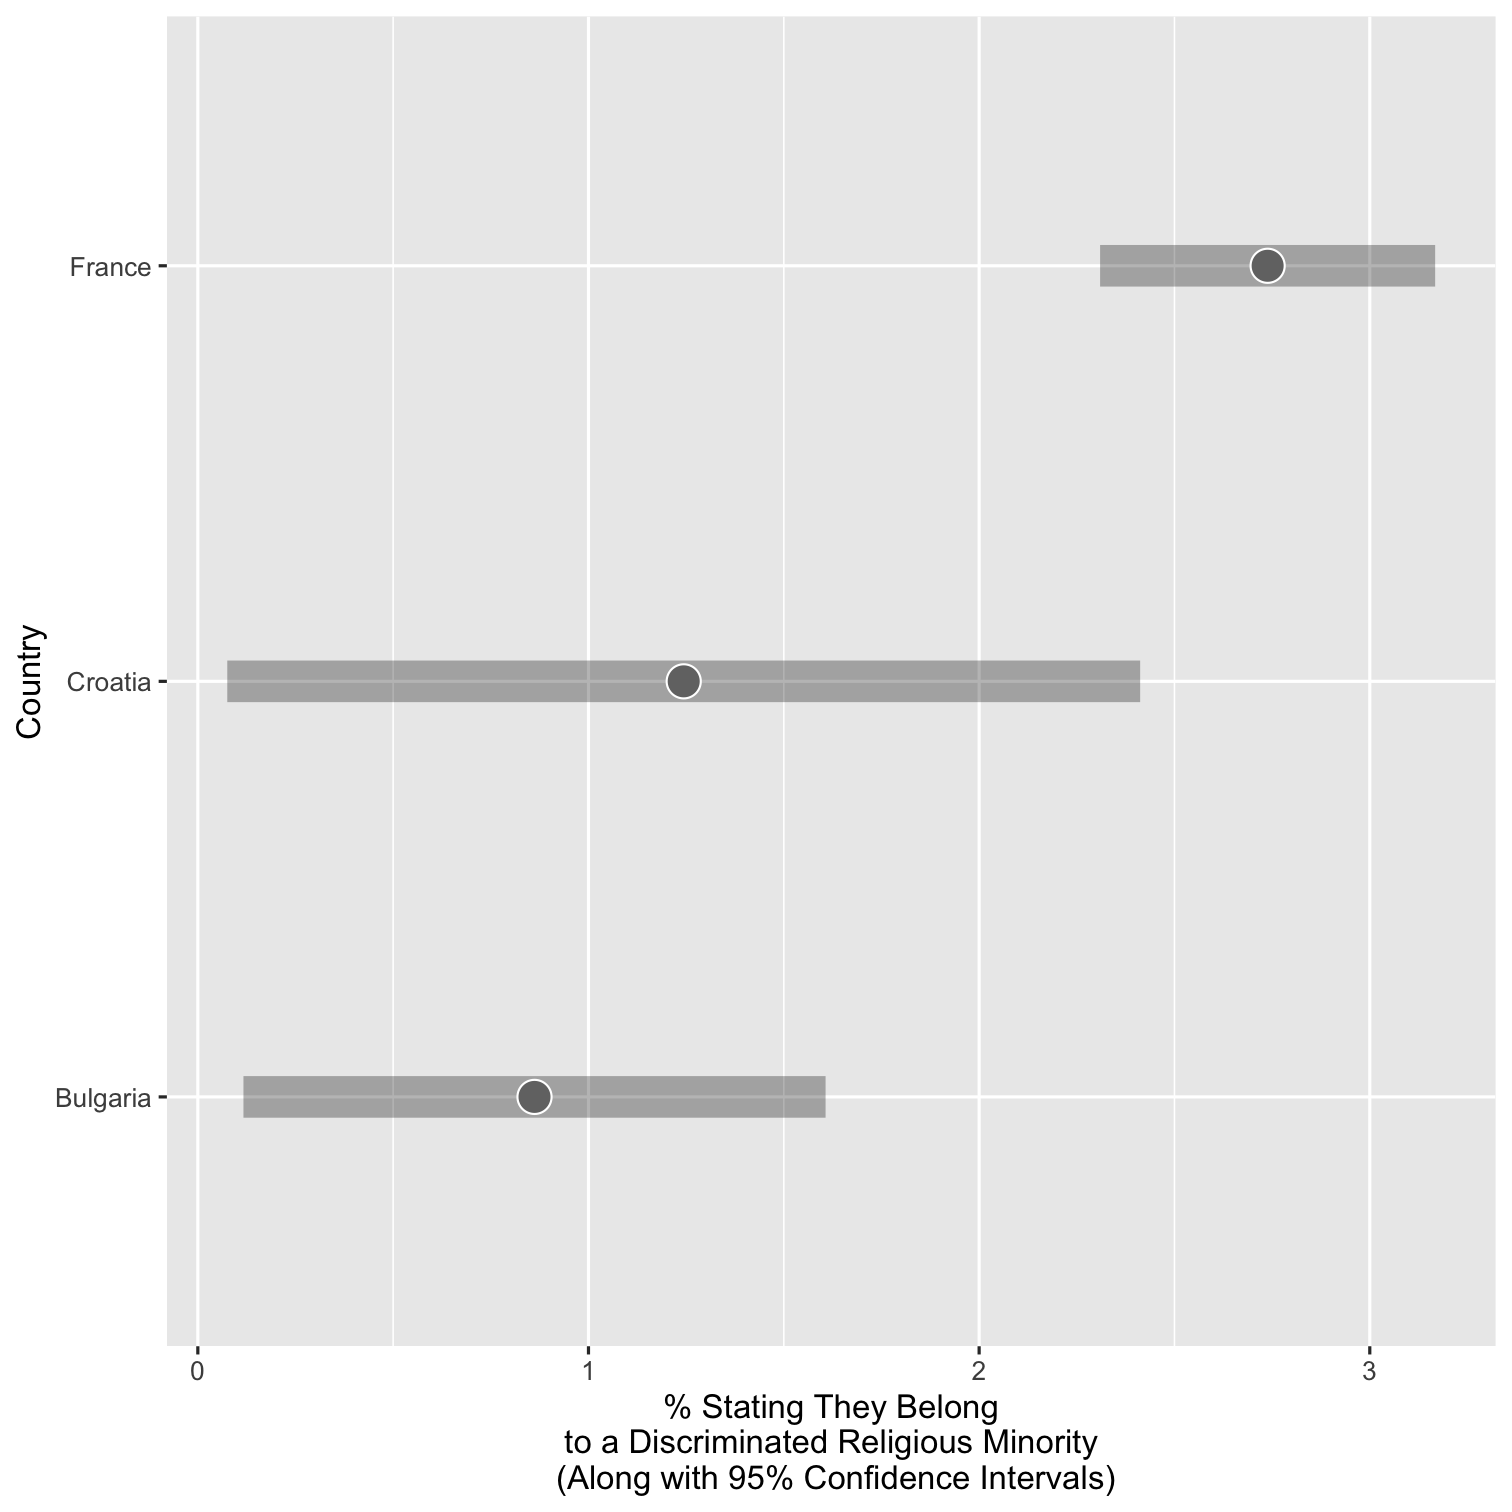
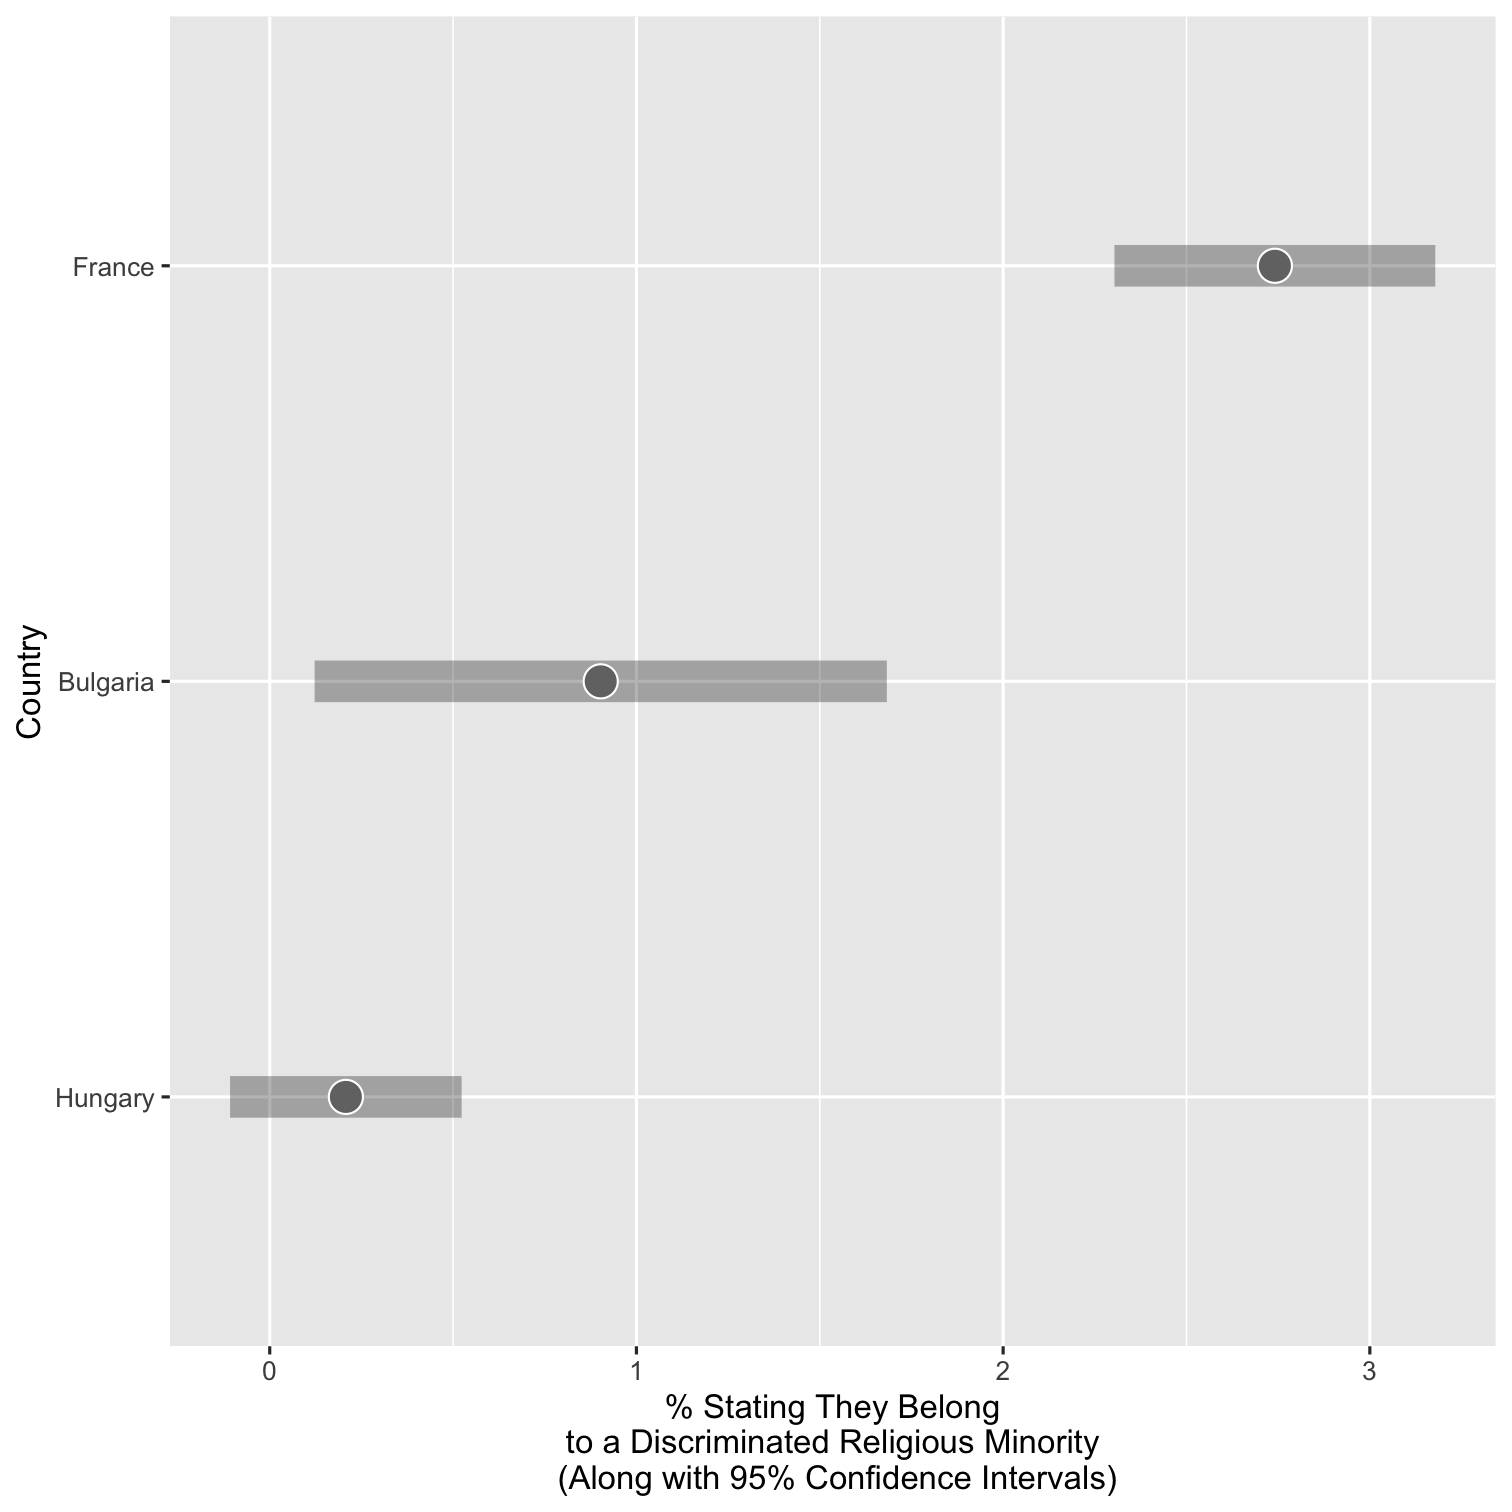
Brought lecture 6 in line

diff --git a/static/6-Visualization-III/6-Visualization-III.html b/static/6-Visualization-III/6-Visualization-III.html
@@ -74,27 +74,29 @@ ESS &lt;- read_spss("ESS10.sav")
 
 
 ```r
-ESS &lt;- ESS %&gt;% # Import the ESS, then (pipe result into)
+*ESS &lt;- ESS %&gt;% # Import the ESS, then (pipe result into)
   transmute( # Create new variables and keep only those
     cntry = as_factor(cntry) %&gt;% fct_drop(), # Country of interview
     gndr = as_factor(gndr),
     facntr = as_factor(facntr), # Father born in cntry
     mocntr = as_factor(mocntr), # Mother born in cntry
-    dscrgrp = as_factor(dscrgrp), # Belonging to discriminated group
-    dscrrlg = as_factor(dscrrlg), # Discriminated because of religion
-    rel_discr = case_when(
-      dscrgrp == "Yes" &amp; dscrrlg == "Marked" ~ "Yes",
-      dscrgrp == "No" | (dscrgrp == "Yes" &amp; dscrrlg != "Marked") ~ "No",
-      TRUE ~ as.character(NA)) %&gt;% as_factor(), # all others missing, then change to factor
-    pspwght = dweight*pweight,
+*   dscrgrp = as_factor(dscrgrp), # Belonging to discriminated group
+*   dscrrlg = as_factor(dscrrlg), # Discriminated because of religion
+*   rel_discr = case_when(
+*     dscrgrp == "Yes" &amp; dscrrlg == "Marked" ~ "Yes",
+*     dscrgrp == "No" | (dscrgrp == "Yes" &amp; dscrrlg != "Marked") ~ "No",
+*     TRUE ~ as.character(NA)) %&gt;% as_factor(), # all others missing, then change to factor
+    pspwght = dweight*pweight, # Post-stratification weights.     
+    agea = zap_labels(agea), # Age
     eduyrs = case_when( # Education
       eduyrs &gt; 21 ~ 21, # Recode to max 21 years of edu.
       eduyrs &lt; 9 ~ 9, # Recode to min 9 years of edu.
-      TRUE ~ zap_labels(eduyrs)), # Make it numeric
-*   atchctr = zap_labels(atchctr)) %&gt;% # Emotionally attached to cntry, then
-  dplyr::filter(
-    # filter cases from four countries
-    (cntry %in% c("Croatia", "France", "Bulgaria")))
+      TRUE ~ zap_labels(eduyrs)) # Make it numeric.
+* ) %&gt;% # finish transmute, then (pipe result into)
+  dplyr::filter( # filter cases from three countries,
+    (cntry %in% c("France", "Bulgaria", "Hungary"))
+* ) %&gt;% # finish filter, then
+  drop_na() # Casewise deletion.
 ```
 ]
 
@@ -108,9 +110,8 @@ ggplot(data = ESS, mapping = aes(y = atchctr, x = eduyrs)) +
   geom_point(alpha = 1/20) +
   labs(y = "Emotionally attached to country",
        x = "Years of education")
+# Error in FUN(X[[i]], ...): object 'atchctr' not found
 ```
-
-&lt;img src="6-Visualization-III_files/figure-html/unnamed-chunk-5-1.png" width="60%" style="display: block; margin: auto;" /&gt;
 
 ---
 # **Statistical transformations**
@@ -137,7 +138,7 @@ ggplot(data = ESS) +
 table(ESS$rel_discr, useNA = "always") 
 # 
 #   No  Yes &lt;NA&gt; 
-# 6082   98  107
+# 6193   79    0
 ```
 ]
 
@@ -184,24 +185,32 @@ ggplot(data = ESS) +
 ---
 # Statistical transformations .font60[**Like a pro** ...]
 
-Oftentimes, we want to do statistical transformations by hand and plot the resulting data.
 
 ```r
-ESS_cntry &lt;- ESS %&gt;% # use the ESS, then
-  mutate( # Generate a numeric 0/1 indicator of perceived discrimination.
-    rel_discr_num = case_when(rel_discr == "Yes" ~ 1, 
-                              rel_discr == "No" ~ 0,
-                              TRUE ~ as.numeric(NA))) %&gt;%
-  group_by(cntry) %&gt;% # group ESS_minority by cntry, then
-  dplyr::summarize( # Start summarize function.
-    wn = sum(pspwght, na.rm = TRUE), # weighted number of cases,
-    df = (wn^2 / sum(pspwght^2, na.rm = TRUE)), # degrees of freedom,
-    wn_rd = sum(rel_discr_num * pspwght, na.rm = TRUE), # weighted number of cases who ...,
-    wperc_rd = (wn_rd / wn) * 100, # weighted % who ...,
-    wse_rd = sqrt(wperc_rd * (100 - wperc_rd) / wn), # Standard error of the percent,
-    wmin95_rd = wperc_rd - wse_rd * qt(p = 0.975, df = df), # Lower bound of 95% CI,
-    wmax95_rd = wperc_rd + wse_rd * qt(p = 0.975, df = df) # Upper bound of 95% CI,
-  ) # End of summarize.
+(ESS_cntry &lt;- ESS %&gt;% # use the ESS, then
+   mutate( # Generate a numeric 0/1 indicator of perceived discrimination.
+     rel_discr_num = case_when(rel_discr == "Yes" ~ 1, 
+                               rel_discr == "No" ~ 0,
+                               TRUE ~ as.numeric(NA))) %&gt;%
+   group_by(cntry) %&gt;% # group ESS_minority by cntry, then
+   dplyr::summarize( # Start summarize function.
+     n = n(), # Number of cases,
+     wn = sum(pspwght, na.rm = TRUE), # weighted number of cases,
+     n_rd = sum(rel_discr_num, na.rm = TRUE), # Cases reporting religious discrimination,
+     wn_rd = sum(rel_discr_num * pspwght, na.rm = TRUE), # weighted number of cases who ...,
+     perc_rd = (n_rd / n) * 100, # % cases who ...,
+     wperc_rd = (wn_rd / wn) * 100, # weighted % who ...,
+     df = (wn^2 / sum(pspwght^2, na.rm = TRUE)), # degrees of freedom,
+     wse_rd = sqrt(wperc_rd * (100 - wperc_rd) / wn), # Standard error of the percent,
+     wmin95_rd = wperc_rd - qt(p = 0.975, df = df) * wse_rd, # Lower bound of 95% CI,
+     wmax95_rd = wperc_rd + qt(p = 0.975, df = df) * wse_rd # Upper bound of 95% CI,
+   )) # End of summarize.
+# # A tibble: 3 × 11
+#   cntry        n    wn  n_rd  wn_rd perc_rd wperc_rd    df wse_rd wmin95_rd wmax95_rd
+#   &lt;fct&gt;    &lt;int&gt; &lt;dbl&gt; &lt;dbl&gt;  &lt;dbl&gt;   &lt;dbl&gt;    &lt;dbl&gt; &lt;dbl&gt;  &lt;dbl&gt;     &lt;dbl&gt;     &lt;dbl&gt;
+# 1 Bulgaria  2595  565.    24   5.10   0.925    0.903 2586.  0.398     0.122     1.68 
+# 2 France    1902 5358.    52 147.     2.73     2.74  1902.  0.223     2.30      3.18 
+# 3 Hungary   1775  799.     3   1.66   0.169    0.208 1670.  0.161    -0.108     0.523
 ```
 
 ---
@@ -225,12 +234,12 @@ ggplot(data = ESS_cntry) +
 
 ```r
 ESS_cntry
-# # A tibble: 3 × 8
-#   cntry       wn    df  wn_rd wperc_rd wse_rd wmin95_rd wmax95_rd
-#   &lt;fct&gt;    &lt;dbl&gt; &lt;dbl&gt;  &lt;dbl&gt;    &lt;dbl&gt;  &lt;dbl&gt;     &lt;dbl&gt;     &lt;dbl&gt;
-# 1 Bulgaria  592. 2708.   5.10    0.862  0.380    0.117       1.61
-# 2 France   5570. 1977. 153.      2.74   0.219    2.31        3.17
-# 3 Croatia   346. 1574.   4.31    1.24   0.596    0.0754      2.41
+# # A tibble: 3 × 11
+#   cntry        n    wn  n_rd  wn_rd perc_rd wperc_rd    df wse_rd wmin95_rd wmax95_rd
+#   &lt;fct&gt;    &lt;int&gt; &lt;dbl&gt; &lt;dbl&gt;  &lt;dbl&gt;   &lt;dbl&gt;    &lt;dbl&gt; &lt;dbl&gt;  &lt;dbl&gt;     &lt;dbl&gt;     &lt;dbl&gt;
+# 1 Bulgaria  2595  565.    24   5.10   0.925    0.903 2586.  0.398     0.122     1.68 
+# 2 France    1902 5358.    52 147.     2.73     2.74  1902.  0.223     2.30      3.18 
+# 3 Hungary   1775  799.     3   1.66   0.169    0.208 1670.  0.161    -0.108     0.523
 ```
 ]
 
@@ -263,12 +272,12 @@ ggplot(data = ESS_cntry) +
 
 ```r
 ESS_cntry
-# # A tibble: 3 × 8
-#   cntry       wn    df  wn_rd wperc_rd wse_rd wmin95_rd wmax95_rd
-#   &lt;fct&gt;    &lt;dbl&gt; &lt;dbl&gt;  &lt;dbl&gt;    &lt;dbl&gt;  &lt;dbl&gt;     &lt;dbl&gt;     &lt;dbl&gt;
-# 1 Bulgaria  592. 2708.   5.10    0.862  0.380    0.117       1.61
-# 2 France   5570. 1977. 153.      2.74   0.219    2.31        3.17
-# 3 Croatia   346. 1574.   4.31    1.24   0.596    0.0754      2.41
+# # A tibble: 3 × 11
+#   cntry        n    wn  n_rd  wn_rd perc_rd wperc_rd    df wse_rd wmin95_rd wmax95_rd
+#   &lt;fct&gt;    &lt;int&gt; &lt;dbl&gt; &lt;dbl&gt;  &lt;dbl&gt;   &lt;dbl&gt;    &lt;dbl&gt; &lt;dbl&gt;  &lt;dbl&gt;     &lt;dbl&gt;     &lt;dbl&gt;
+# 1 Bulgaria  2595  565.    24   5.10   0.925    0.903 2586.  0.398     0.122     1.68 
+# 2 France    1902 5358.    52 147.     2.73     2.74  1902.  0.223     2.30      3.18 
+# 3 Hungary   1775  799.     3   1.66   0.169    0.208 1670.  0.161    -0.108     0.523
 ```
 ]
 
@@ -457,12 +466,12 @@ ggplot(data = ESS_cntry,
       TRUE ~ "Less pronounced") %&gt;% 
         # Make "Pronounced" first level
         fct_relevel("Pronounced")))
-# # A tibble: 3 × 9
-#   cntry       wn    df  wn_rd wperc_rd wse_rd wmin95_rd wmax95_rd discr_level    
-#   &lt;fct&gt;    &lt;dbl&gt; &lt;dbl&gt;  &lt;dbl&gt;    &lt;dbl&gt;  &lt;dbl&gt;     &lt;dbl&gt;     &lt;dbl&gt; &lt;fct&gt;          
-# 1 Bulgaria  592. 2708.   5.10    0.862  0.380    0.117       1.61 Less pronounced
-# 2 France   5570. 1977. 153.      2.74   0.219    2.31        3.17 Pronounced     
-# 3 Croatia   346. 1574.   4.31    1.24   0.596    0.0754      2.41 Less pronounced
+# # A tibble: 3 × 12
+#   cntry        n    wn  n_rd  wn_rd perc_rd wperc_rd    df wse_rd wmin95_rd wmax95_rd discr_level    
+#   &lt;fct&gt;    &lt;int&gt; &lt;dbl&gt; &lt;dbl&gt;  &lt;dbl&gt;   &lt;dbl&gt;    &lt;dbl&gt; &lt;dbl&gt;  &lt;dbl&gt;     &lt;dbl&gt;     &lt;dbl&gt; &lt;fct&gt;          
+# 1 Bulgaria  2595  565.    24   5.10   0.925    0.903 2586.  0.398     0.122     1.68  Less pronounced
+# 2 France    1902 5358.    52 147.     2.73     2.74  1902.  0.223     2.30      3.18  Pronounced     
+# 3 Hungary   1775  799.     3   1.66   0.169    0.208 1670.  0.161    -0.108     0.523 Less pronounced
 ```
 
 ---
